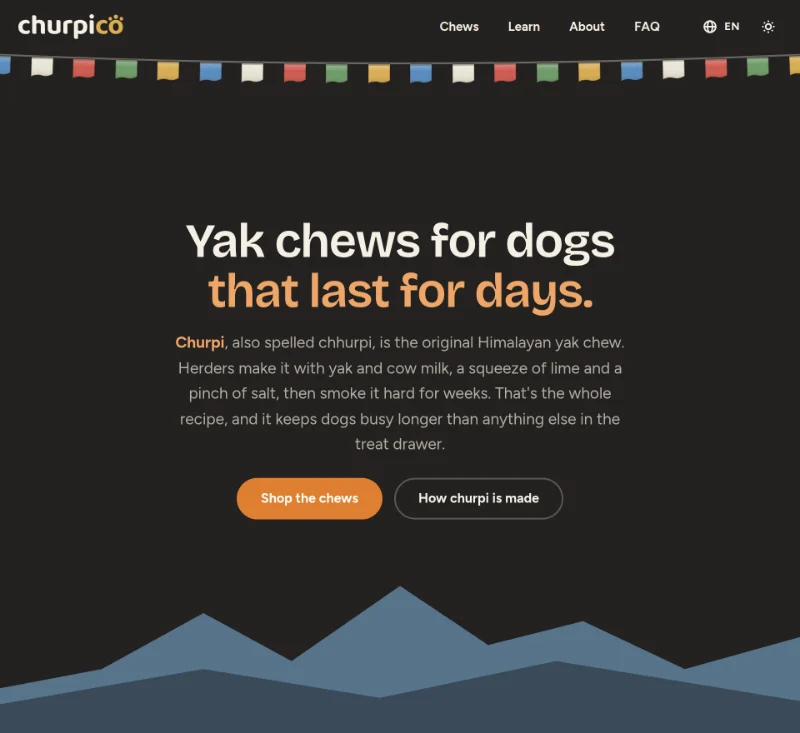
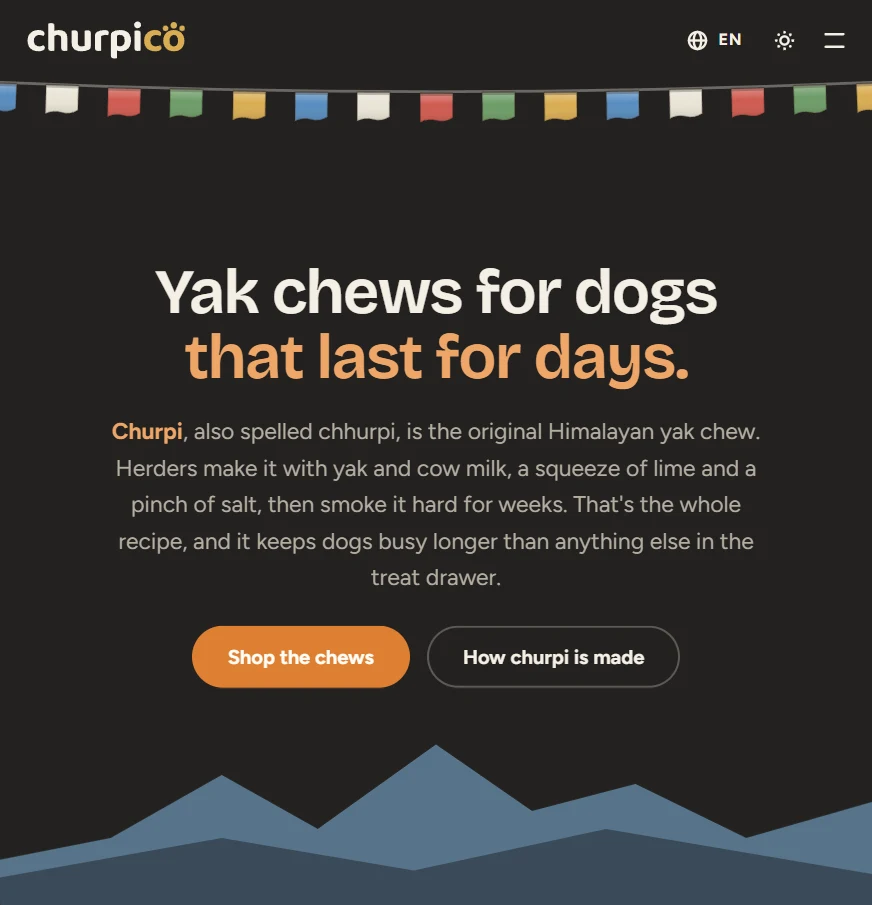
feat: use the supplied churpico.com screenshots for the Churpico stack
Front is the dark home hero, back is the yak chew guide article, both
trimmed of the browser scrollbar; the back is cut to the stack's 1.073
back-card aspect from the top so the header and title stay in frame.

Claude-Session: https://claude.ai/code/session_011bfBRS27PEYD2huJvBKeQZ

diff --git a/src/data/projects.ts b/src/data/projects.ts
@@ -24,7 +24,7 @@ export const projects: Project[] = [
     description:
       "Himalayan yak cheese dog chews from Nepal, with an evidence-led journal on chew safety, sizing and how churpi is made.",
     url: "https://www.churpico.com",
-    // Screenshots of the site in its dark "Smokehouse" theme: hero + size-finder chews
+    // Screenshots of the site in its dark "Smokehouse" theme: home hero + the yak chew guide
     screenshotStack: {
       front: "/projects/churpico-front.webp",
       back: "/projects/churpico-back.webp",
